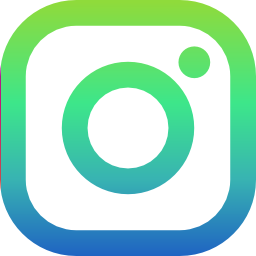
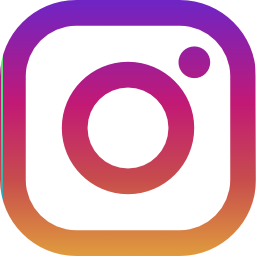
some changes

diff --git a/pages/Components/LandingPage.js b/pages/Components/LandingPage.js
@@ -42,48 +42,53 @@ const LandingPage = () => {
           >
             Contact Us
           </div>
-          <div
-            style={{
-              display: "flex",
-              flexDirection: "column",
-              flexFlow: "wrap",
-              alignItems: "center",
-              marginTop: "1%",
-              height: "50vh",
-              backgroundImage: "url(/infernoLogo.svg)",
-              backgroundSize: "contain",
-              backgroundRepeat: "no-repeat",
-              filter: "invert(100%)",
-            }}
-            className="landing-cards"
-          >
+          <div style={{display: "grid", gridTemplateColumns: "1fr 1fr"}}>
+            <div style={{
+                backgroundImage: "url(/vmlogo.png) ",
+                backgroundSize: "contain",
+                backgroundRepeat: "no-repeat",
+                // filter: "invert(100%)",
+              }} />
             <div
-              className="landing-card"
-              style={{ background: "none", color: "black" }}
+              style={{
+                display: "flex",
+                flexDirection: "column",
+                flexFlow: "wrap",
+                alignItems: "center",
+                justifyContent: "center",
+                marginTop: "1%",
+                height: "50vh",
+              }}
+              className="landing-cards"
             >
-              <div style={{color:"cyan"}} className="card-title">
-                <b> ELAS BPHC</b>
+              <div
+                className="landing-card"
+                style={{ background: "none", color: "black" }}
+              >
+                <div style={{color:"red"}} className="card-title">
+                  <b> ELAS BPHC</b>
+                </div>
+                <div className="card-time" style={{ color: "red" }}>
+                  Email :{" "}
+                  <a
+                    style={{ color: "white" }}
+                    href="mailto:elas@hyderabad.bits-pilani.ac.in"
+                  >
+                    elas@hyderabad.bits-pilani.ac.in
+                  </a>
+                </div>
+                <div className="logoGroup">
+                  <a href="https://www.instagram.com/vm.bphc?igsh=c2Y3eTM0dWtxZW9p">
+                    <div className="instaLogo" style={{ backgroundImage: "url(/instagram.png)" }} />
+                  </a>
+                  <a href="https://www.facebook.com/verbamaximus?mibextid=ZbWKwL">
+                    <div className="instaLogo" style={{ backgroundImage: "url(/facebook.png)" }} />
+                  </a>
+                </div>
+                {/* <div className='card-desc'>
+                                  Phone : <a style={{ opacity: 0.5, color: "black" }} href="phone:1234GETONTHEDANCEFLOOR">1234GETONTHEDANCEFLOOR</a>
+                              </div> */}
               </div>
-              <div className="card-time" style={{ color: "green" }}>
-                Email :{" "}
-                <a
-                  style={{ color: "green" }}
-                  href="mailto:elas@hyderabad.bits-pilani.ac.in"
-                >
-                  elas@hyderabad.bits-pilani.ac.in
-                </a>
-              </div>
-              <div className="logoGroup">
-                <a href="https://www.instagram.com/vm.bphc?igsh=c2Y3eTM0dWtxZW9p">
-                  <div className="instaLogo" style={{ backgroundImage: "url(/instagram.png)" }} />
-                </a>
-                <a href="https://www.facebook.com/verbamaximus?mibextid=ZbWKwL">
-                  <div className="instaLogo" style={{ backgroundImage: "url(/facebook.png)" }} />
-                </a>
-              </div>
-              {/* <div className='card-desc'>
-                                Phone : <a style={{ opacity: 0.5, color: "black" }} href="phone:1234GETONTHEDANCEFLOOR">1234GETONTHEDANCEFLOOR</a>
-                            </div> */}
             </div>
           </div>
         </div>

diff --git a/pages/Components/NavBar/NavBar.js b/pages/Components/NavBar/NavBar.js
@@ -8,7 +8,7 @@ const NavBar = () => {
 
     return (
         <div className='navbar'>
-            <Link scroll={false} href='/' relative="path"><img src="/infernoLogo.svg" className='logo' onClick={scrollToTop} /></Link>
+            <Link scroll={false} href='/' relative="path"><img src="/vmlogo.png" className='logo' onClick={scrollToTop} /></Link>
             <div className='headers'>
                 <div className='element' onClick={scrollToTop}> 
                     <Link scroll={false} href='/'>Home</Link>
@@ -22,8 +22,16 @@ const NavBar = () => {
                 <div className='element'>
                     <Link scroll={false} href='/#contact'>Contact Us</Link>
                 </div>
-                {/* <Link scroll={false} width="5%" href='https://www.instagram.com/elas.bphc/' relative="path"><img width="20%" src="/instagram.png" /></Link> */}
-                {/* <img src="/instagram.png" className='logo'/> */}
+                <div>
+                    <Link scroll={false} href='https://www.instagram.com/vm.bphc?igsh=c2Y3eTM0dWtxZW9p' relative="path" className="logo2">
+                        <img width="100%" src="/instagram.png" />
+                    </Link>
+                </div>
+                <div>
+                    <Link scroll={false} href='https://www.facebook.com/verbamaximus?mibextid=ZbWKwL' relative="path" className="logo2">
+                        <img width="100%" src="/facebook.png" />
+                    </Link>
+                </div>
                 <div className='element'>
                     <Link scroll={false} className='register' href='https://unstop.com/creative-cultural-event/verba-maximus-23-complete-pass-verba-maximus-birla-institute-of-technology-science-bits-pilani-591176'>Register</Link>
                 </div>

diff --git a/pages/Components/NavBar/NavBar.css b/pages/Components/NavBar/NavBar.css
@@ -7,11 +7,11 @@
 .navbar{
     width: 100vw;
     height: 15vh;
-    background-color: white;
+    background-color: black;
     position: fixed;
     top:0;
     display: grid;
-    grid-template-columns: 2fr 3fr;
+    grid-template-columns: 1fr 5fr;
     grid-template-rows: 100px;
     box-shadow: 0px 0px 20px var(--color2Blur);
     z-index: 100;
@@ -33,7 +33,7 @@
 }
 
 .element{
-    color: var(--color2);
+    color: red;
     font-size: 1.8vw;
 }
 
@@ -68,6 +68,11 @@
     }
 }
 
+.logo2 {
+    width: 40px;
+    display: flex;
+    justify-content: center;
+}
 .instaLogo {
     width: 1px;
     height: 1px;

diff --git a/pages/Components/LandingPage.css b/pages/Components/LandingPage.css
@@ -139,11 +139,6 @@
 .landing-cards {
   margin-top: 5%;
   width: 90%;
-  display: flex;
-  flex-direction: row;
-  flex-wrap: nowrap;
-  flex-flow: wrap;
-  justify-content: center;
 }
 .landing-card {
   border-radius: 10px;
